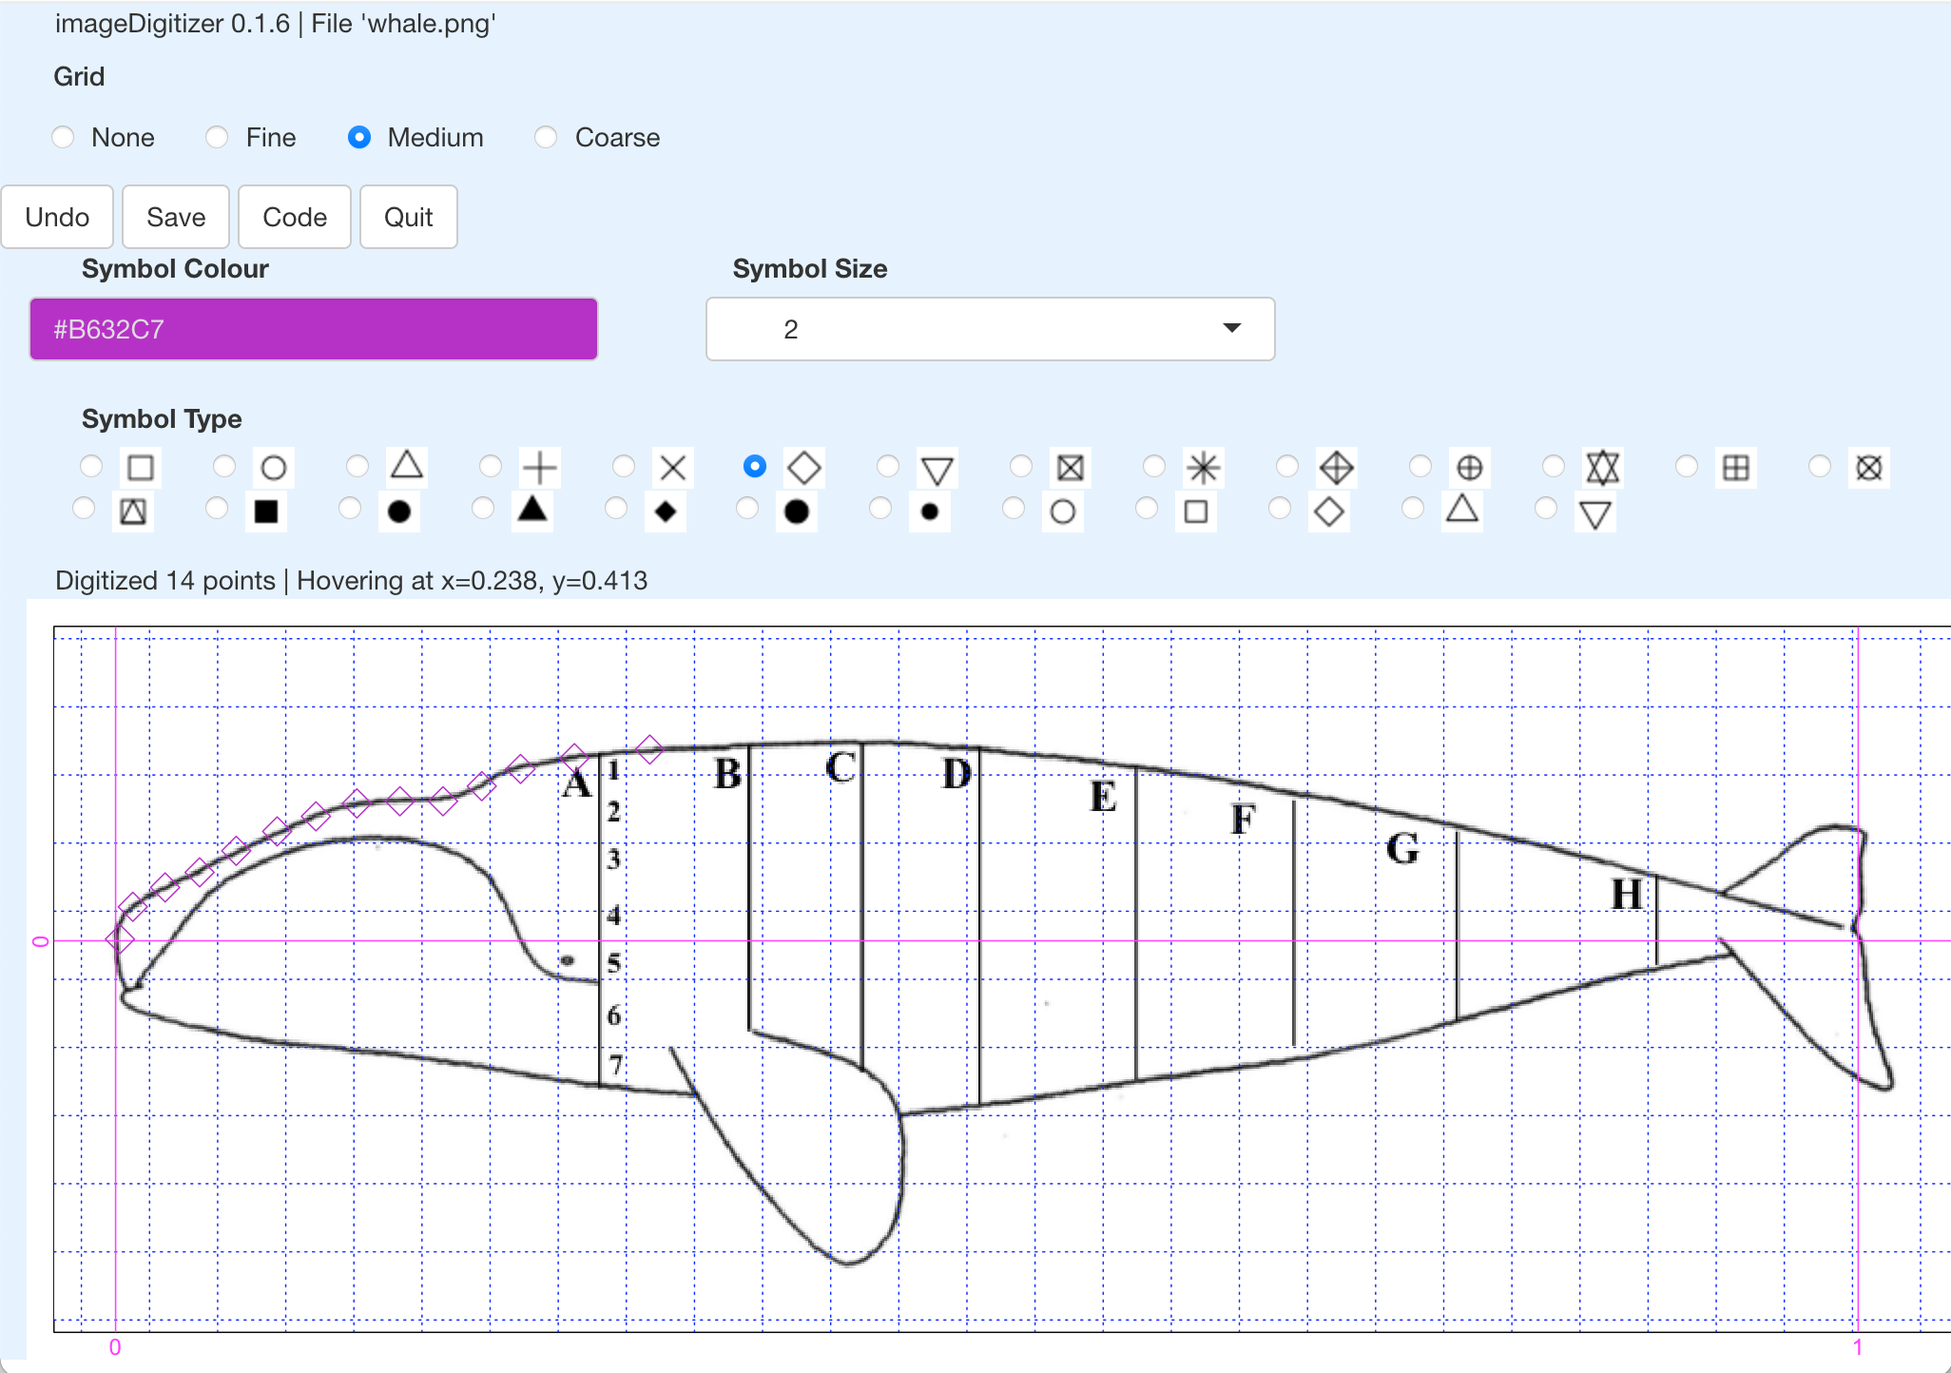
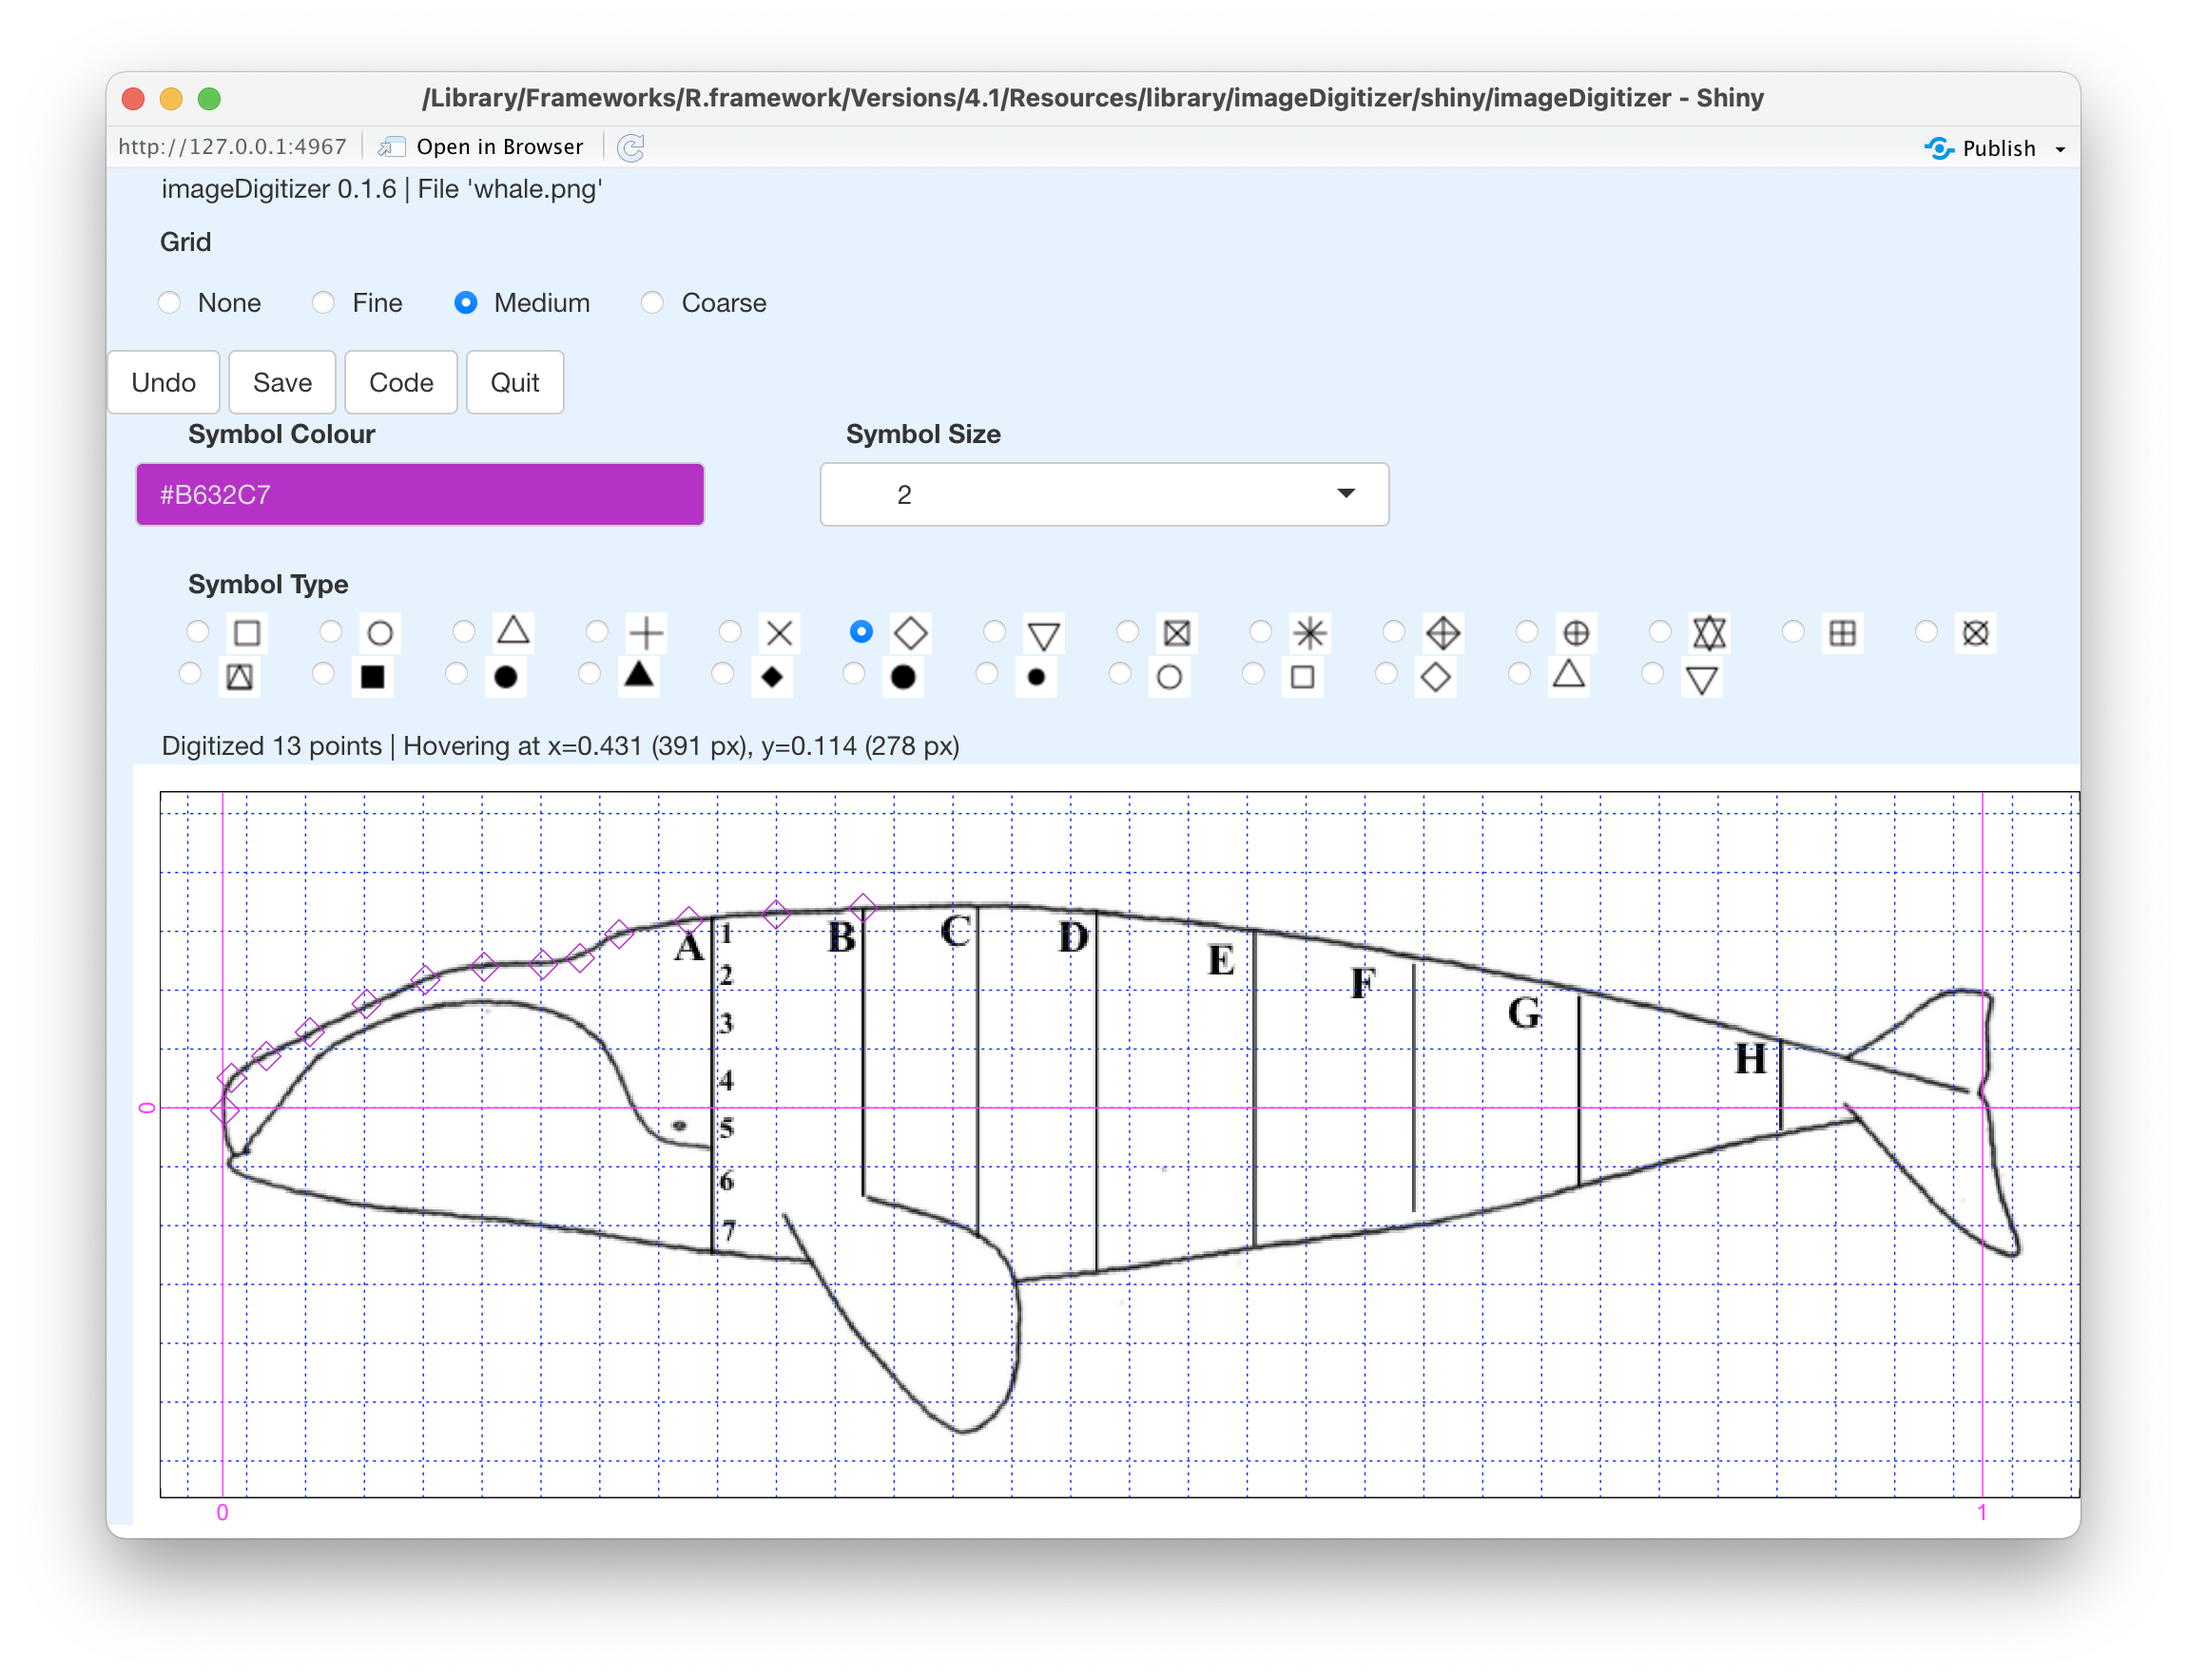
Built site for imageDigitizer: 0.1.6@92afbc9

diff --git a/articles/imageDigitizer.html b/articles/imageDigitizer.html
@@ -86,7 +86,7 @@
 <!-- 1. edit this file in vignettes/imageDigitizer.Rmd -->
 <!-- 2. run devtools::build_vignettes() -->
 <!-- 3. build imageDigitizer -->
-<p>A sample screenshot is shown below. The purpose is to trace the outline of a schematic side-view of a Right Whale (<em>Eubalaena glacialis</em>), taken from Daoust <em>et al.</em> (2018). Since this diagram is drawn natural scale, just a single value was used to specify the <span class="math inline">\(y\)</span> coordinate). At this stage, 14 points have been digitized, and the mouse is hovering over <span class="math inline">\(x=0.238\)</span> and <span class="math inline">\(y=0.413\)</span>.</p>
+<p>A sample screenshot is shown below. The purpose is to trace the outline of a schematic side-view of a Right Whale (<em>Eubalaena glacialis</em>), taken from Daoust <em>et al.</em> (2018). Since this diagram is drawn natural scale, just a single value was used to specify the <span class="math inline">\(y\)</span> coordinate). At this stage, 13 points have been digitized, and the mouse is hovering over <span class="math inline">\(x=0.431\)</span> and <span class="math inline">\(y=0.114\)</span>.</p>
 <p>Magenta lines and labels indicate the specified coordinate system, and dotted blue lines are a grid that (sometimes) can be useful in guiding the eye.</p>
 <p>Any point clicked in error can be eliminated by clicking the <strong>Undo</strong> button, which removes the most recently added point. (Actually, <strong>Undo</strong> will remove all the points, if the user clicks enough, but it a good idea to keep a close eye on the digitized points, so that only single-point corrections will be required.)</p>
 <p>Clicking the <strong>Save</strong> button saves the results to a file, and clicking the <strong>Code</strong> button shows how to read that file and plot the digitized points. (Note that clicking the <strong>Quit</strong> button saves the file first.)</p>
@@ -95,7 +95,7 @@
 <img src="screenshot_whale.png" alt=""><p class="caption">A sample screenshot showing the use of imageDigitizer on an image of a Right Whale.</p>
 </div>
 <p><strong>References</strong></p>
-<p>Daoust, Pierre-Yves, Émilie L. Couture, Tonya Wimmer, and Laura Bourque. “Incident Report. North Atlantic Right Whale Mortality Event in the Gulf of St. Lawrence, 2017.” Canadian Wildlife Health Cooperative, Marine Animal Response Society, and Fisheries and Oceans Canada, 2018. <a href="http://publications.gc.ca/site/eng/9.850838/publication.html" class="uri">http://publications.gc.ca/site/eng/9.850838/publication.html</a>.</p>
+<p>Daoust, Pierre-Yves, Émilie L. Couture, Tonya Wimmer, and Laura Bourque. “Incident Report. North Atlantic Right Whale Mortality Event in the Gulf of St. Lawrence, 2017.” Canadian Wildlife Health Cooperative, Marine Animal Response Society, and Fisheries and Oceans Canada, 2018. <a href="https://publications.gc.ca/site/eng/9.850838/publication.html" class="uri">https://publications.gc.ca/site/eng/9.850838/publication.html</a>.</p>
   </div>
 
   <div class="col-md-3 hidden-xs hidden-sm" id="pkgdown-sidebar">
